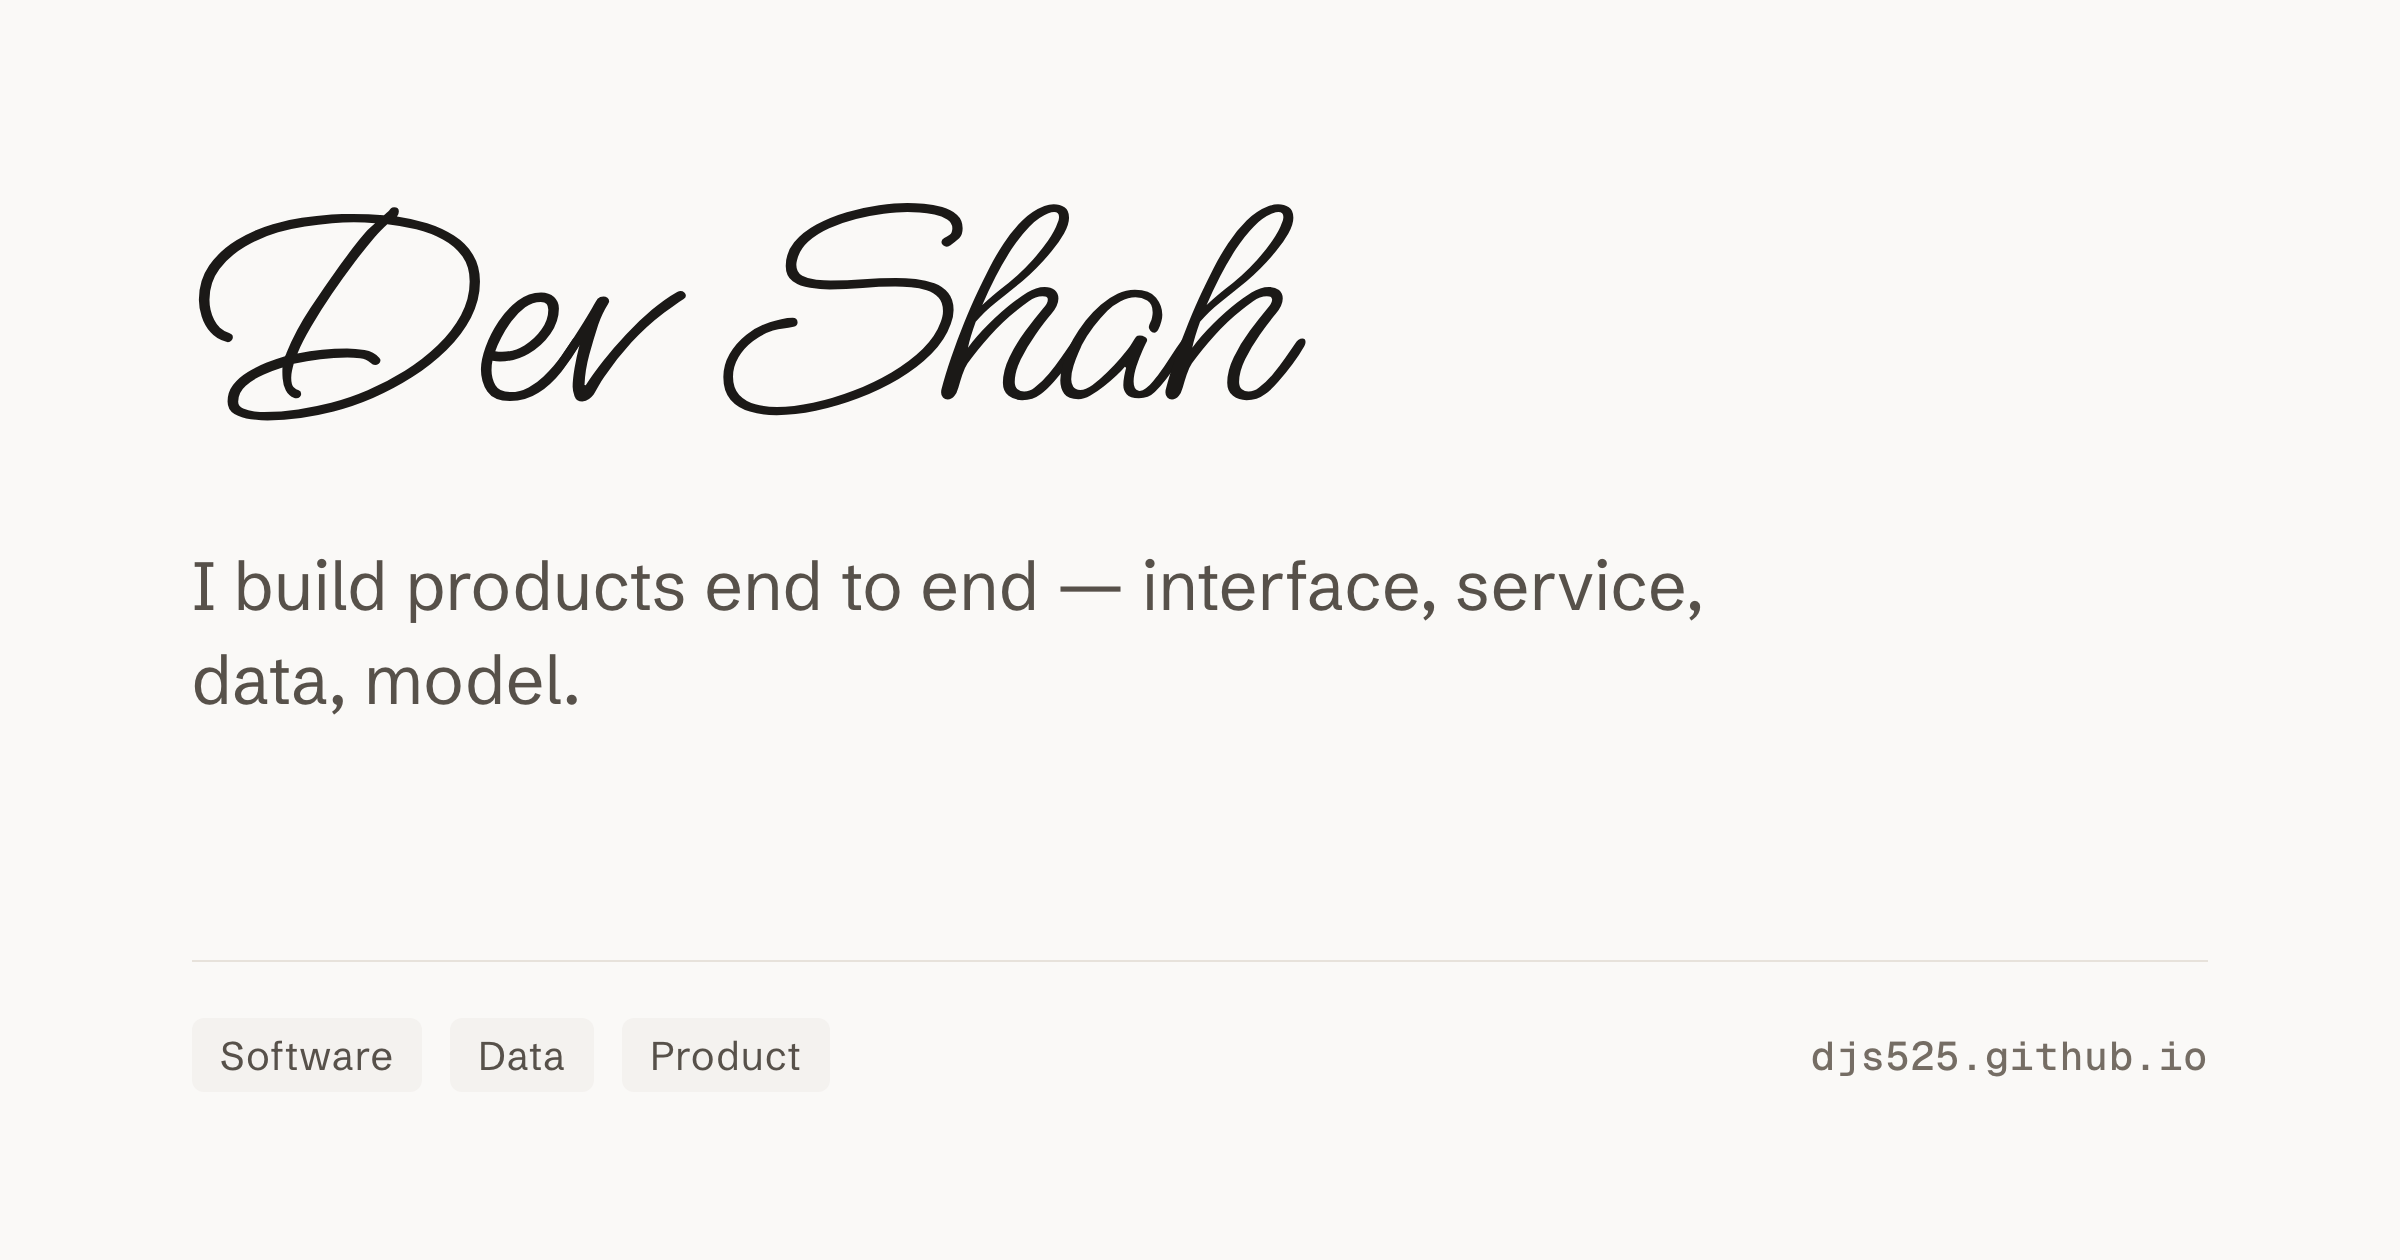
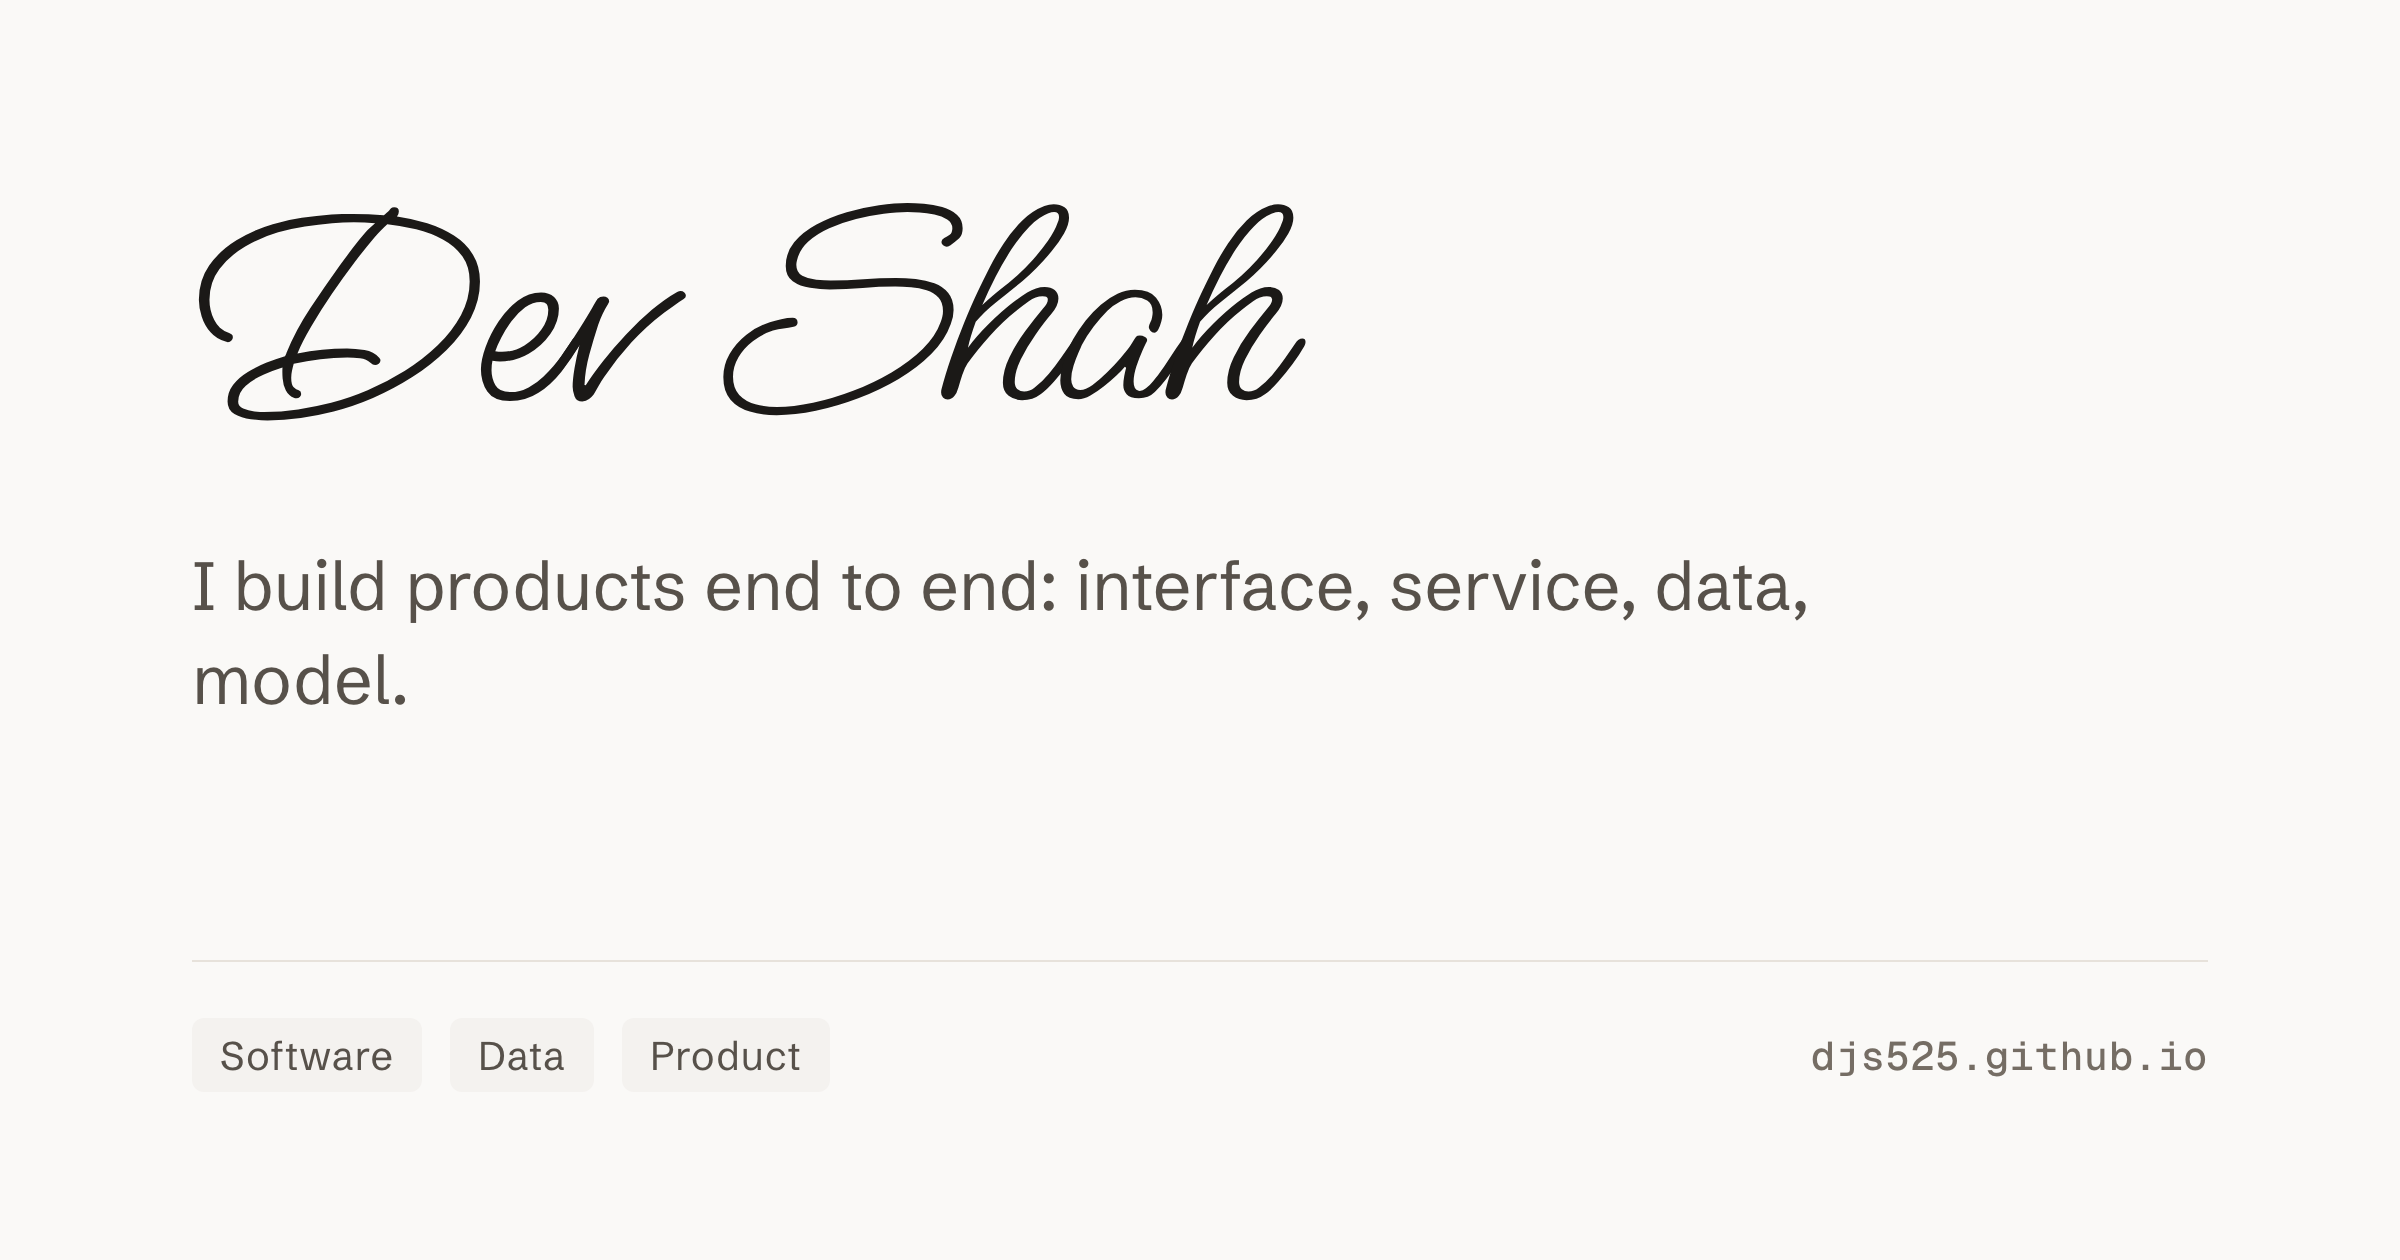
copy: remove em dashes from every visible string
Rewritten rather than glyph-swapped: a hyphen dropped where an em dash
was still reads wrong. Most became colons, which is what the dash was
standing in for; the two nested dashes in the GSD.AI write-up became
parentheses; three sentences were split. Facts, figures and claims are
unchanged throughout.

Award and organisation labels take commas. The credentials rail takes
the middle dot the wordmark already uses. The empty-languages fallback
now reads "None listed" instead of a bare dash.

Titles revert to "Dev Shah - Portfolio" as originally written.

Regenerated og.png, which carried the dash in its lead line. Code
comments keep their dashes; this is about what a visitor reads.

Changed region(s): [[0.4375, 0.4333, 0.75, 0.4952], [0.0625, 0.5262, 0.25, 0.5571]]

diff --git a/src/data/projects.ts b/src/data/projects.ts
@@ -88,7 +88,7 @@ export const PROJECTS: readonly Project[] = [
     approach:
       "I built a Discord bot that answers natural-language questions from live Supercell API data. A Gemini tool-use agent drives a drop-in plugin registry and a model-fallback chain; SQLite persistence extends the API's 25-battle log window.",
     outcome:
-      "Players link a tag with /link and ask anything with /ask — profile, brawlers, battle log, meta, event rotation, rankings.",
+      "Players link a tag with /link and ask anything with /ask: profile, brawlers, battle log, meta, event rotation, rankings.",
     layers: [
       { role: "INTERFACE", part: "Discord slash commands" },
       { role: "SERVICE", part: "Plugin registry, model-fallback chain" },
@@ -125,7 +125,7 @@ export const PROJECTS: readonly Project[] = [
     problem:
       "Culinary entrepreneurs sign leases without knowing which cuisines a neighborhood already oversupplies, or whether a concept survives there.",
     approach:
-      "I built a full-stack platform that mines thousands of Yelp reviews and restaurant firmographic data across New Jersey — XGBoost classification, VADER sentiment, SHAP attribution — behind a React and Leaflet/Carto map UI on a FastAPI backend.",
+      "I built a full-stack platform that mines thousands of Yelp reviews and restaurant firmographic data across New Jersey (XGBoost classification, VADER sentiment, SHAP attribution) behind a React and Leaflet/Carto map UI on a FastAPI backend.",
     outcome: "1st place at the Rutgers BITS × IBM Datathon.",
     layers: [
       { role: "INTERFACE", part: "React, Leaflet/Carto map" },
@@ -145,9 +145,9 @@ export const PROJECTS: readonly Project[] = [
     problem:
       "A startup's weekly review means manually assembling deals, goals, investors, and hiring pipeline from scattered sources.",
     approach:
-      'I wrote a system prompt that turns Claude into an autonomous operating agent over a Notion workspace via MCP. "run Cortex" writes the full weekly review — health-scored, eight sections populated — with no manual input.',
+      'I wrote a system prompt that turns Claude into an autonomous operating agent over a Notion workspace via MCP. "run Cortex" writes the full weekly review, health-scored and eight sections populated, with no manual input.',
     outcome:
-      "I built it during the Notion × MLH hackathon; it did not place. I wrote it to behave like an enterprise operating tool rather than a hackathon demo — an agent that runs the review, not a script that formats one.",
+      "I built it during the Notion × MLH hackathon; it did not place. I wrote it to behave like an enterprise operating tool rather than a hackathon demo: an agent that runs the review, not a script that formats one.",
     layers: [
       { role: "INTERFACE", part: "Notion workspace" },
       { role: "SERVICE", part: "MCP connection" },
@@ -168,7 +168,7 @@ export const PROJECTS: readonly Project[] = [
     approach:
       "I built a full-stack race strategy simulator trained on 7+ years of F1 telemetry; an ML pit-stop optimizer ranks strategies by projected finish position, served via REST API, containerized with Docker, deployed on DigitalOcean.",
     outcome:
-      "A passion project — I'm a longtime F1 fan, and building in that space was the motivation. No competition, no external outcome.",
+      "A passion project. I'm a longtime F1 fan, and building in that space was the motivation. No competition, no external outcome.",
     layers: [
       { role: "INTERFACE", part: "Strategy simulator UI" },
       { role: "SERVICE", part: "FastAPI REST, Docker" },

diff --git a/index.html b/index.html
@@ -3,10 +3,10 @@
   <head>
     <meta charset="UTF-8" />
     <meta name="viewport" content="width=device-width, initial-scale=1.0" />
-    <title>Dev Shah — Portfolio</title>
+    <title>Dev Shah - Portfolio</title>
     <meta
       name="description"
-      content="I build products end to end — the interface you touch, the service behind it, the data underneath, and the model that decides. Four projects, each written up in full."
+      content="I build products end to end: the interface you touch, the service behind it, the data underneath, and the model that decides. Four projects, each written up in full."
     />
     <link rel="canonical" href="https://djs525.github.io/" />
 
@@ -18,23 +18,23 @@
     <meta property="og:type" content="website" />
     <meta property="og:site_name" content="Dev Shah" />
     <meta property="og:url" content="https://djs525.github.io/" />
-    <meta property="og:title" content="Dev Shah — Portfolio" />
+    <meta property="og:title" content="Dev Shah - Portfolio" />
     <meta
       property="og:description"
-      content="I build products end to end — interface, service, data, model. Four projects, each written up in full."
+      content="I build products end to end: interface, service, data, model. Four projects, each written up in full."
     />
     <meta property="og:image" content="https://djs525.github.io/og.png" />
     <meta property="og:image:width" content="2400" />
     <meta property="og:image:height" content="1260" />
     <meta
       property="og:image:alt"
-      content="Dev Shah, signed in a fountain-pen script, above the line: I build products end to end — interface, service, data, model."
+      content="Dev Shah, signed in a fountain-pen script, above the line: I build products end to end: interface, service, data, model."
     />
     <meta name="twitter:card" content="summary_large_image" />
-    <meta name="twitter:title" content="Dev Shah — Portfolio" />
+    <meta name="twitter:title" content="Dev Shah - Portfolio" />
     <meta
       name="twitter:description"
-      content="I build products end to end — interface, service, data, model. Four projects, each written up in full."
+      content="I build products end to end: interface, service, data, model. Four projects, each written up in full."
     />
     <meta name="twitter:image" content="https://djs525.github.io/og.png" />
 

diff --git a/src/data/history.ts b/src/data/history.ts
@@ -30,7 +30,7 @@ export const EXPERIENCE: readonly HistoryEntry[] = [
     place: "Remote",
     bullets: [
       "I built a natural-language search interface for a grocery retail client: a FastAPI service that translates plain-English queries into parameterized SQL against a live PostgreSQL product database, with guardrails validating output for safety and schema correctness before execution.",
-      "I extended the pipeline with a threshold-driven automation layer: results checked against reorder levels trigger webhook and PostgreSQL alerts, scoped dynamically to user intent — 100+ queries/day at 90% accuracy.",
+      "I extended the pipeline with a threshold-driven automation layer: results checked against reorder levels trigger webhook and PostgreSQL alerts, scoped dynamically to user intent. It handles 100+ queries/day at 90% accuracy.",
       "I containerized the service with Docker and exposed REST endpoints for downstream integrations, and added structured logging and input sanitization against prompt injection and malformed SQL.",
     ],
     stats: ["100+ QUERIES / DAY", "90% ACCURACY"],
@@ -38,7 +38,7 @@ export const EXPERIENCE: readonly HistoryEntry[] = [
   },
   {
     id: "mbs-externship",
-    org: "Rutgers MBS Externship Exchange — New Castle Public Library",
+    org: "Rutgers MBS Externship Exchange, New Castle Public Library",
     role: "Lead Data Scientist Extern",
     period: "Jan – Apr 2024",
     place: "New Brunswick, NJ",
@@ -65,7 +65,7 @@ export const LEADERSHIP: readonly HistoryEntry[] = [
   },
   {
     id: "learning-assistant",
-    org: "Rutgers University — New Brunswick",
+    org: "Rutgers University, New Brunswick",
     role: "Learning Assistant, Precalculus",
     period: "Aug 2024 – May 2026",
     place: "New Brunswick, NJ",

diff --git a/src/data/achievements.ts b/src/data/achievements.ts
@@ -17,28 +17,28 @@ export interface Achievement {
 export const ACHIEVEMENTS: readonly Achievement[] = [
   {
     id: "bits-ibm",
-    title: "1st Place — Rutgers BITS × IBM Datathon",
+    title: "1st Place, Rutgers BITS × IBM Datathon",
     rarity: "GOLD",
     when: "Mar 2026",
     detail: "I built GSD.AI. Judged by IBM and JPMorgan professionals.",
   },
   {
     id: "bits-barclays",
-    title: "1st Place — Rutgers BITS × Barclays Datathon",
+    title: "1st Place, Rutgers BITS × Barclays Datathon",
     rarity: "GOLD",
     when: "Mar 2025",
     detail: "Stock prediction model.",
   },
   {
     id: "dsc-datathon",
-    title: "1st Place — Rutgers Data Science Club Datathon",
+    title: "1st Place, Rutgers Data Science Club Datathon",
     rarity: "GOLD",
     when: "2024",
     detail: "Best Research.",
   },
   {
     id: "techstart",
-    title: "2nd Place — Rutgers TechStart",
+    title: "2nd Place, Rutgers TechStart",
     rarity: "SILVER",
     when: "Mar 2026",
     detail: "I pitched FleetSovereign via Road to Silicon V/Alley.",

diff --git a/src/studio/ProjectDetail.tsx b/src/studio/ProjectDetail.tsx
@@ -92,7 +92,7 @@ export default function ProjectDetail() {
 
           <p className={styles.note}>
             Generated by {record.source} from this repository&rsquo;s Claude
-            Code session logs — an outside read of how the project was built,
+            Code session logs: an outside read of how the project was built,
             not a self-assessment. These figures are a dated snapshot, not live
             data.
           </p>
@@ -148,7 +148,7 @@ export default function ProjectDetail() {
                 <LiveValue
                   stats={stats}
                   select={(d) =>
-                    d.languages.map(([name]) => name).join(" · ") || "—"
+                    d.languages.map(([name]) => name).join(" · ") || "None listed"
                   }
                 />
               ),

diff --git a/src/pages/ProjectDetail.tsx b/src/pages/ProjectDetail.tsx
@@ -97,7 +97,7 @@ export default function ProjectDetail() {
           <section className={styles.record}>
             <p className={styles.recordSource}>
               Generated by {record.source} from this repository&rsquo;s Claude
-              Code session logs — an outside read of how the unit was built,
+              Code session logs: an outside read of how the unit was built,
               not a self-assessment.
             </p>
 
@@ -173,7 +173,7 @@ export default function ProjectDetail() {
               <LiveValue
                 stats={stats}
                 select={(d) =>
-                  d.languages.map(([name]) => name).join(" · ") || "—"
+                  d.languages.map(([name]) => name).join(" · ") || "None listed"
                 }
               />
             </span>

diff --git a/src/studio/Home.tsx b/src/studio/Home.tsx
@@ -94,14 +94,14 @@ export default function Home() {
 
         <p className={styles.lead}>
           I build products end to end. Every project here started as something I
-          wanted to exist, and I built every layer of it — the interface you
+          wanted to exist, and I built every layer of it: the interface you
           touch, the service behind it, the data underneath, and the model that
           decides.
         </p>
 
         <ul className={styles.credentials}>
           <li className={styles.credential}>
-            B.S. Computer Science, Data Science minor — Rutgers,{" "}
+            B.S. Computer Science, Data Science minor · Rutgers{" "}
             <span className={styles.figure}>2026</span>
           </li>
           <li className={styles.credential}>

diff --git a/src/data/meta.ts b/src/data/meta.ts
@@ -9,7 +9,7 @@
 export const ROUTE_META = {
   home: {
     description:
-      "I build products end to end — the interface you touch, the service behind it, the data underneath, and the model that decides. Four projects, each written up in full.",
+      "I build products end to end: the interface you touch, the service behind it, the data underneath, and the model that decides. Four projects, each written up in full.",
   },
   experience: {
     title: "Experience",
@@ -27,6 +27,6 @@ export const ROUTE_META = {
   },
   about: {
     title: "About",
-    description: "Off the clock — what I play, and what I watch.",
+    description: "Off the clock: what I play, and what I watch.",
   },
 } as const;

diff --git a/src/pages/Home.tsx b/src/pages/Home.tsx
@@ -46,7 +46,7 @@ export default function Home() {
 
           <p className={styles.blurb}>
             I build products end to end. Every project here started as something
-            I wanted to exist, and I built every layer of it — the interface you
+            I wanted to exist, and I built every layer of it: the interface you
             touch, the service behind it, the data underneath, and the model
             that decides.
           </p>

diff --git a/src/lib/usePageMeta.ts b/src/lib/usePageMeta.ts
@@ -15,7 +15,7 @@ import { useEffect } from "react";
  */
 
 const NAME = "Dev Shah";
-const HOME_TITLE = "Dev Shah — Portfolio";
+const HOME_TITLE = "Dev Shah - Portfolio";
 
 function setDescription(content: string) {
   const tag = document.querySelector('meta[name="description"]');

diff --git a/public/404.html b/public/404.html
@@ -2,7 +2,7 @@
 <html lang="en">
   <head>
     <meta charset="UTF-8" />
-    <title>Dev Shah — Portfolio</title>
+    <title>Dev Shah - Portfolio</title>
     <meta name="robots" content="noindex" />
     <link rel="icon" type="image/svg+xml" href="/favicon.svg" />
     <script>
